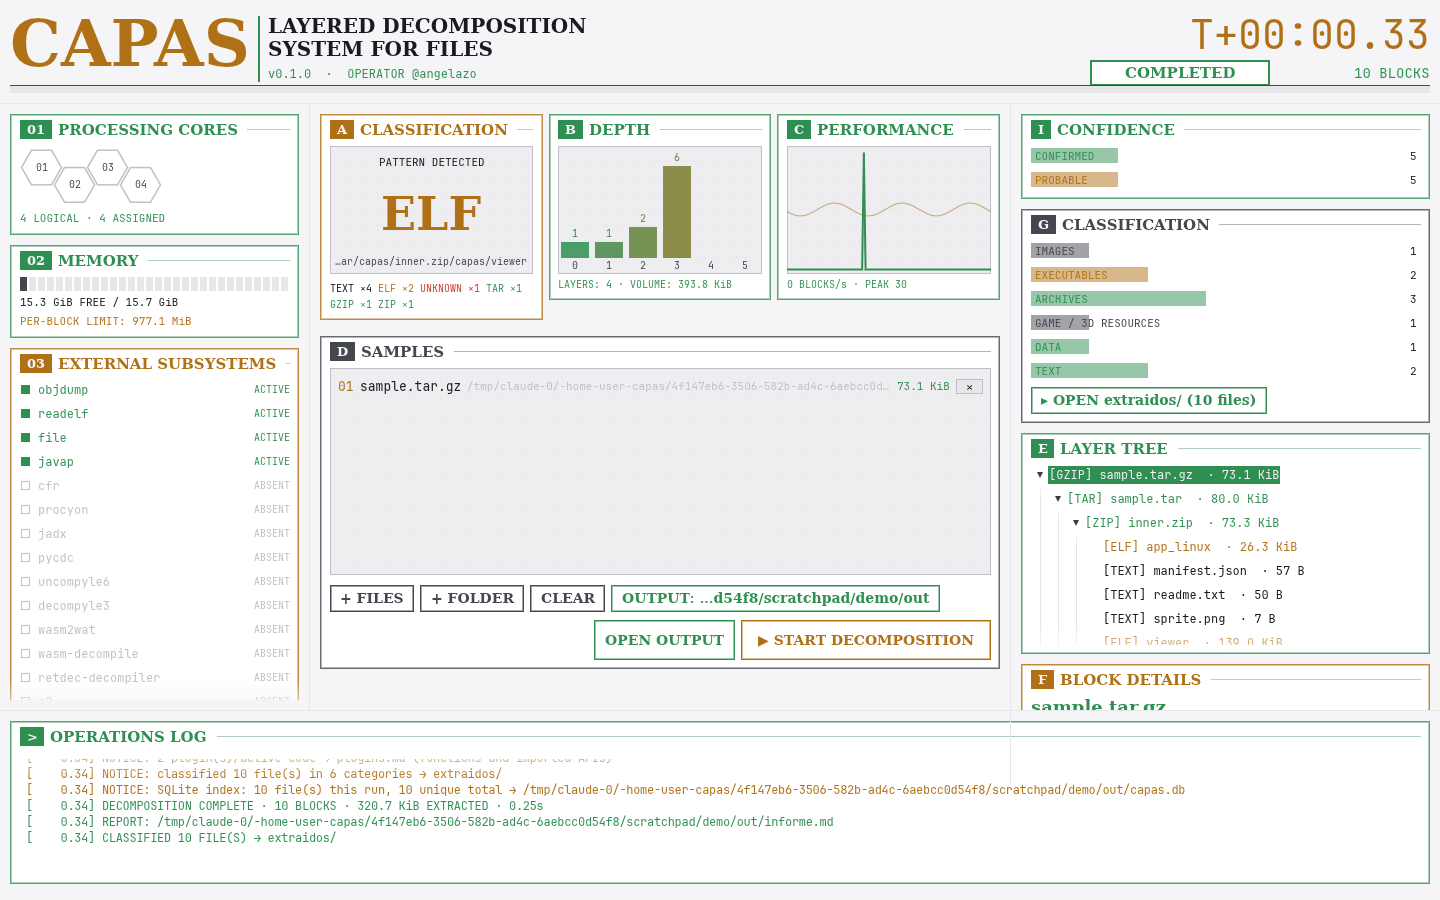
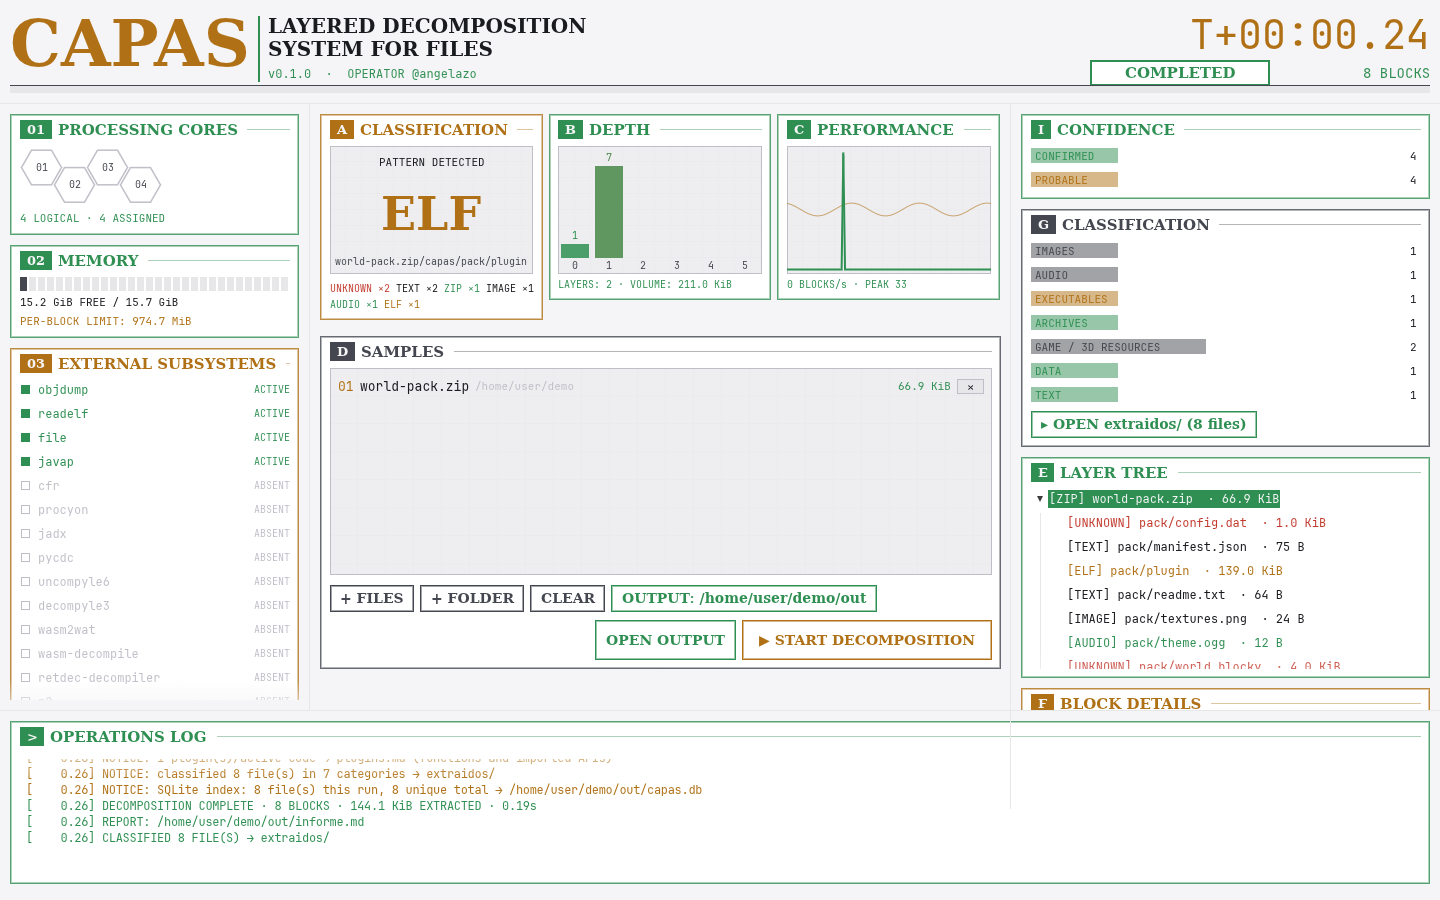
Web: captura de ejemplo limpia (pack inventado) + GIF animado
Nueva captura de la interfaz con un ejemplo inventado (world-pack.zip, rutas
limpias sin directorios internos) y GIF animado del árbol de capas en la sección
de proceso. make_es.js ajusta todas las imágenes relativas para /es.

diff --git a/docs/es/index.html b/docs/es/index.html
@@ -262,6 +262,10 @@ footer a:hover{color:var(--ink)}
       <h2 data-es="Un archivo son capas. Las lee todas." data-en="A file is layers. It reads all of them.">Un archivo son capas. Las lee todas.</h2>
       <p data-es="Cada bloque pasa por los mismos cuatro pasos; los hijos se procesan en cuanto aparecen, en paralelo, deduplicados por SHA-256." data-en="Each block runs the same four steps; children run the moment they appear, in parallel, deduplicated by SHA-256.">Cada bloque pasa por los mismos cuatro pasos; los hijos se procesan en cuanto aparecen, en paralelo, deduplicados por SHA-256.</p>
     </div>
+    <figure class="appshot" style="max-width:640px;margin:0 0 1.8rem">
+      <div class="chrome"><span class="d"></span><span class="d"></span><span class="d"></span><span class="lbl mono" data-es="capas — árbol de capas (ejemplo)" data-en="capas — layer tree (example)">capas — árbol de capas (ejemplo)</span></div>
+      <img src="../capas_demo.gif" alt="Animation: CAPAS peeling a package open layer by layer with confidence levels and an audit verdict" loading="lazy" width="760" height="424">
+    </figure>
     <div class="pipe">
       <div class="pstep"><div class="n" data-es="01 — IDENTIFICAR" data-en="01 — IDENTIFY">01 — IDENTIFICAR</div><h3 data-es="Por contenido" data-en="By content">Por contenido</h3><p data-es="Lee el formato por los bytes mágicos, nunca por el nombre del archivo." data-en="Reads the format from the magic bytes, never from the file name.">Lee el formato por los bytes mágicos, nunca por el nombre del archivo.</p></div>
       <div class="pstep"><div class="n" data-es="02 — ANALIZAR" data-en="02 — ANALYZE">02 — ANALIZAR</div><h3 data-es="Desármalo" data-en="Pull it apart">Desármalo</h3><p data-es="Cabeceras, símbolos, desensamblado, bytecode, cadenas y entropía." data-en="Headers, symbols, disassembly, bytecode, strings and entropy.">Cabeceras, símbolos, desensamblado, bytecode, cadenas y entropía.</p></div>

diff --git a/docs/index.html b/docs/index.html
@@ -263,6 +263,10 @@ footer a:hover{color:var(--ink)}
       <h2 data-es="Un archivo son capas. Las lee todas.">A file is layers. It reads all of them.</h2>
       <p data-es="Cada bloque pasa por los mismos cuatro pasos; los hijos se procesan en cuanto aparecen, en paralelo, deduplicados por SHA-256.">Each block runs the same four steps; children run the moment they appear, in parallel, deduplicated by SHA-256.</p>
     </div>
+    <figure class="appshot" style="max-width:640px;margin:0 0 1.8rem">
+      <div class="chrome"><span class="d"></span><span class="d"></span><span class="d"></span><span class="lbl mono" data-es="capas — árbol de capas (ejemplo)">capas — layer tree (example)</span></div>
+      <img src="capas_demo.gif" alt="Animation: CAPAS peeling a package open layer by layer with confidence levels and an audit verdict" loading="lazy" width="760" height="424">
+    </figure>
     <div class="pipe">
       <div class="pstep"><div class="n" data-es="01 — IDENTIFICAR">01 — IDENTIFY</div><h3 data-es="Por contenido">By content</h3><p data-es="Lee el formato por los bytes mágicos, nunca por el nombre del archivo.">Reads the format from the magic bytes, never from the file name.</p></div>
       <div class="pstep"><div class="n" data-es="02 — ANALIZAR">02 — ANALYZE</div><h3 data-es="Desármalo">Pull it apart</h3><p data-es="Cabeceras, símbolos, desensamblado, bytecode, cadenas y entropía.">Headers, symbols, disassembly, bytecode, strings and entropy.</p></div>

diff --git a/docs/tools/make_es.js b/docs/tools/make_es.js
@@ -26,8 +26,11 @@ const OUT = path.join(OUT_DIR, 'index.html');
     document.documentElement.setAttribute('lang', 'es');
     document.querySelectorAll('[data-es]').forEach(e => { e.textContent = e.getAttribute('data-es'); });
     document.querySelectorAll('[data-es-html]').forEach(e => { e.innerHTML = e.getAttribute('data-es-html'); });
-    // rutas relativas suben un nivel desde /es/
-    const img = document.querySelector('.appshot img'); if (img) img.setAttribute('src', '../capas-app.png');
+    // rutas relativas suben un nivel desde /es/ (todas las imágenes y el favicon)
+    document.querySelectorAll('img').forEach((im) => {
+      const s = im.getAttribute('src');
+      if (s && !/^(https?:)?\/\//.test(s) && !s.startsWith('../')) im.setAttribute('src', '../' + s);
+    });
     const fav = document.querySelector('link[rel="icon"]'); if (fav) fav.setAttribute('href', '../favicon.svg');
     // head en español + canonical /es/
     document.title = 'CAPAS — Decompilador de archivos por capas';
